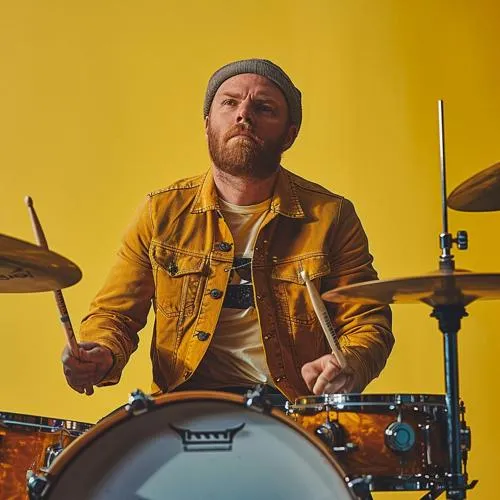
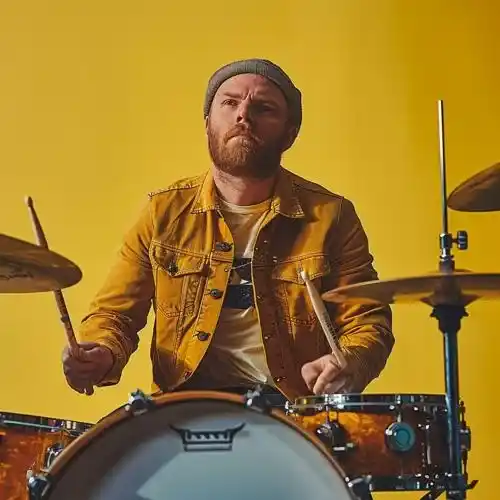
optimizadas fotos

diff --git a/src/category.html b/src/category.html
@@ -16,7 +16,6 @@
     <link rel="preconnect" href="https://fonts.googleapis.com">
     <link rel="preconnect" href="https://fonts.gstatic.com" crossorigin>
 
-    <!-- <link rel="stylesheet" href="styles/style.css" media="print" onload="this.media='all'"> -->
     <link rel="stylesheet" href="styles/style.css">
 </head>
 

diff --git a/src/detail.html b/src/detail.html
@@ -18,6 +18,7 @@
 
     <!-- Preload de la imagen LCP  -->
     <link rel="preload" href="./images/detail-close-portrait.jpg?as=avif" as="image">
+
     <link rel="stylesheet" href="styles/style.css">
 </head>
 
